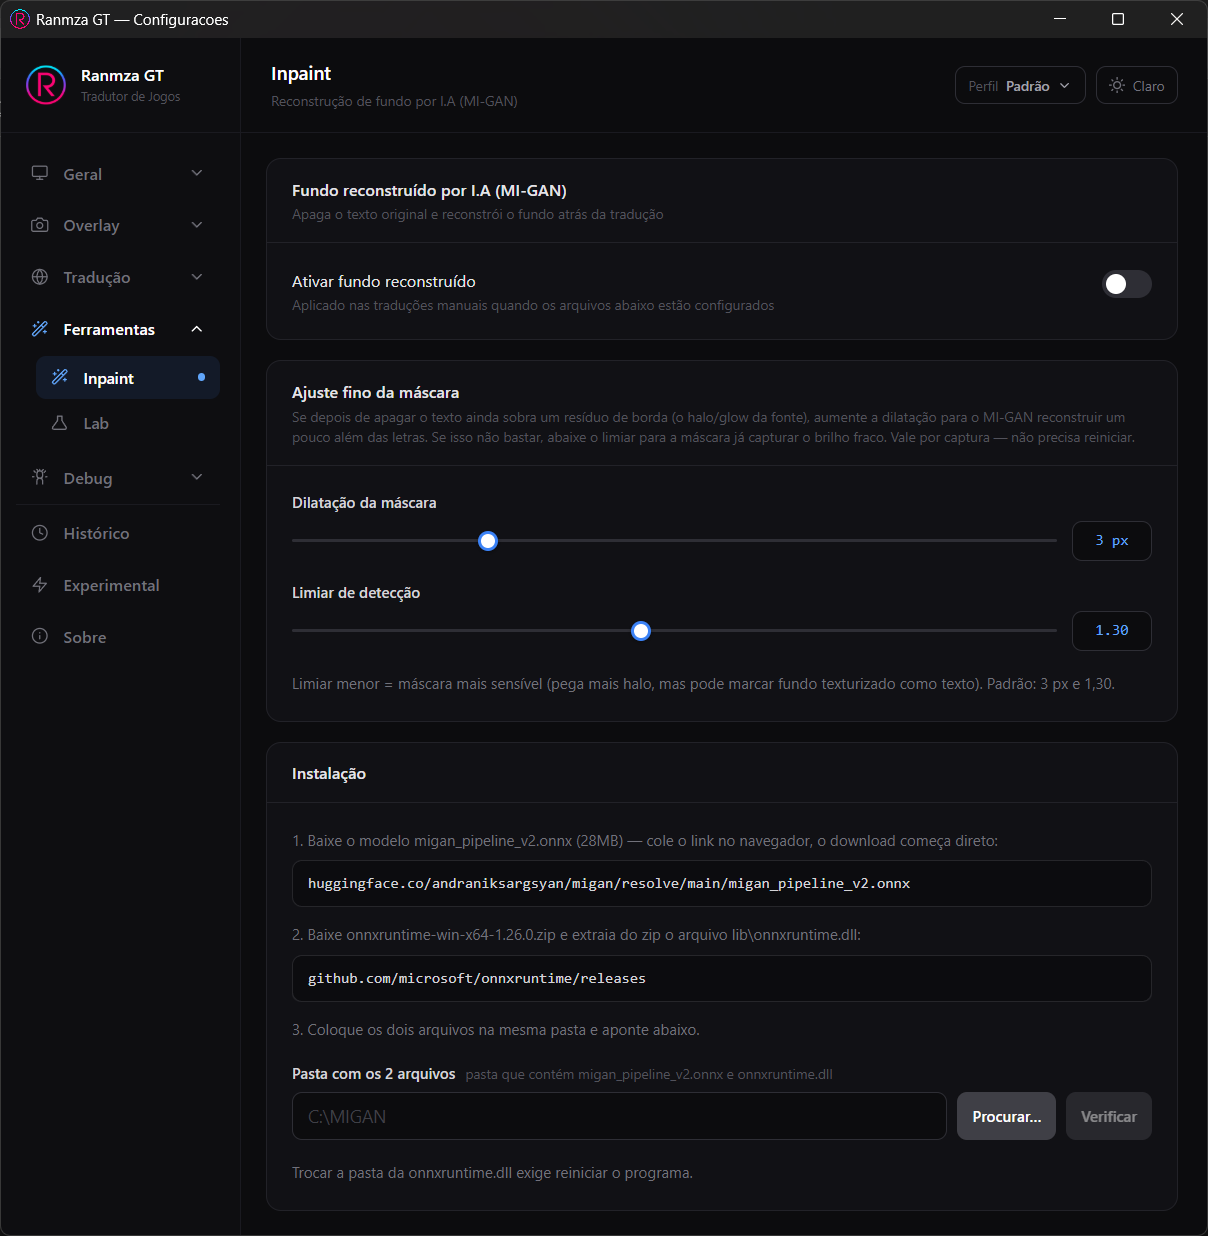
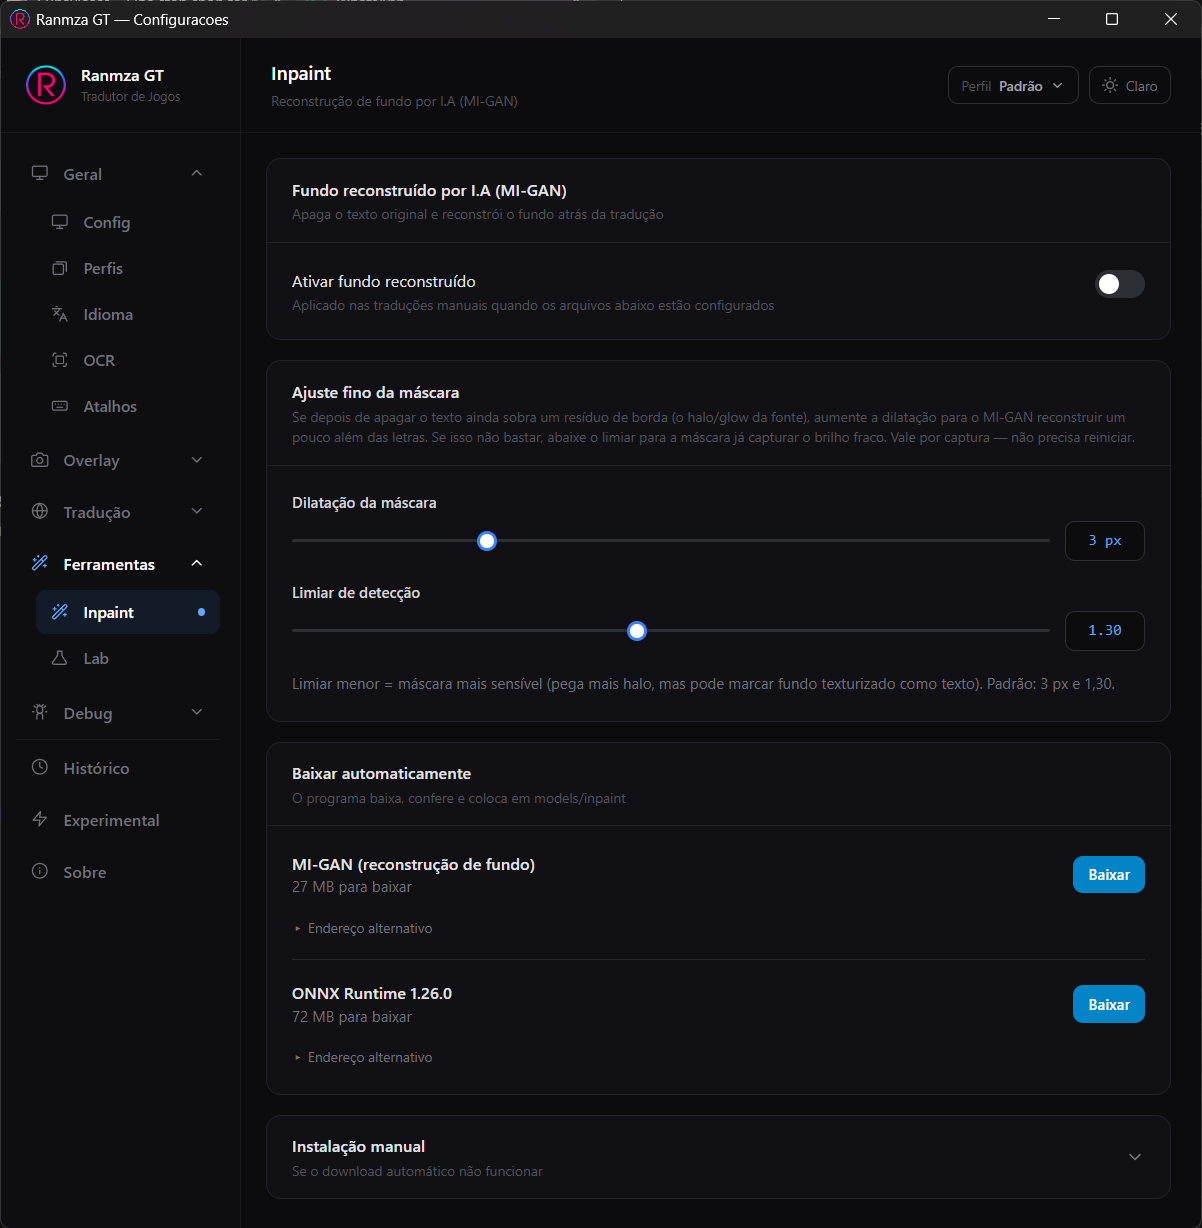
docs: manual cobre o download automatico do MI-GAN (PT + EN)
A secao Ferramentas > Inpaint agora explica os tres caminhos: baixar pelo
botao, endereco alternativo quando a rede bloqueia HuggingFace/GitHub, e a
instalacao manual como alternativa.

Cinco prints novos, incluindo o print da aba atualizado — o antigo mostrava o
layout sem o card de download.

diff --git a/_src/manual_en.md b/_src/manual_en.md
@@ -803,7 +803,37 @@ Instead of a black box behind the translation, it erases the original text from 
   - *Mask dilation* (0–12 px; default 3) — if an edge residue remains after erasing the text (the font halo), raise it so MI-GAN reconstructs a bit beyond the letters.
   - *Detection threshold* (1.05–1.60; default 1.30) — a lower threshold makes the mask more sensitive (catches more halo, but may mistake textured background for text).
   - Both apply **per capture**, with no restart.
-- **Installation** — download `migan_pipeline_v2.onnx` (28 MB) and `onnxruntime.dll` (from inside `onnxruntime-win-x64-1.26.0.zip`), put both in the same folder and point here (**Browse** / **Verify**). Moving the `onnxruntime.dll` to another folder requires restarting the program.
+#### Download automatically
+
+The feature needs two files that don't ship inside the program's `.zip`: the MI-GAN model (27 MB) and `onnxruntime.dll` (72 MB). The **Download automatically** card fetches both for you.
+
+Click **Download** on each one. The bar shows progress and the button turns into **Cancel** — cancelling doesn't throw away what already came down: resuming picks up where it stopped.
+
+<p align="center"><img src="media/ferramentas-inpaint-baixando.png" alt="MI-GAN download in progress" width="820"></p>
+
+Once finished, both read **Ready, files verified** with a green check, and **the folder is configured on its own** — you don't have to copy any path.
+
+<p align="center"><img src="media/ferramentas-inpaint-pronto.png" alt="Both files downloaded and verified" width="820"></p>
+
+The program checks each file's **sha256** before accepting it. A file that arrives corrupted or different from what was expected is deleted and the download fails with a message — a half-written file never gets to pass for a good one. Both land in `models\inpaint`, next to the executable.
+
+##### Alternate address
+
+If the default download doesn't work on your network (some corporate networks and some ISPs block HuggingFace and GitHub), open **Alternate address** and paste another link.
+
+<p align="center"><img src="media/ferramentas-inpaint-endereco.png" alt="Alternate address field open" width="820"></p>
+
+Hash verification **still applies** to the alternate address. It changes where the file comes from, never which file is accepted: a link that serves something else is rejected.
+
+#### Manual installation
+
+If you'd rather do it by hand — or if the gaming machine has no internet — open **Manual installation**. It has the links for both files and the folder field, with **Browse** and **Verify**.
+
+<p align="center"><img src="media/ferramentas-inpaint-manual.png" alt="Manual installation block open" width="820"></p>
+
+Download `migan_pipeline_v2.onnx` and `onnxruntime.dll` (from inside `onnxruntime-win-x64-1.26.0.zip`), put both in the same folder and point here. Once it finds both, the folder is configured right away.
+
+> Moving the `onnxruntime.dll` to another folder requires restarting the program.
 
 > Tip: turn on **Outline** in Overlay › Capture, because the reconstructed background can come out too light for white text.
 

diff --git a/en/Manual/complete-reference-all-tabs.md b/en/Manual/complete-reference-all-tabs.md
@@ -224,7 +224,37 @@ Instead of a black box behind the translation, it erases the original text from 
   - *Mask dilation* (0–12 px; default 3) — if an edge residue remains after erasing the text (the font halo), raise it so MI-GAN reconstructs a bit beyond the letters.
   - *Detection threshold* (1.05–1.60; default 1.30) — a lower threshold makes the mask more sensitive (catches more halo, but may mistake textured background for text).
   - Both apply **per capture**, with no restart.
-- **Installation** — download `migan_pipeline_v2.onnx` (28 MB) and `onnxruntime.dll` (from inside `onnxruntime-win-x64-1.26.0.zip`), put both in the same folder and point here (**Browse** / **Verify**). Moving the `onnxruntime.dll` to another folder requires restarting the program.
+### Download automatically
+
+The feature needs two files that don't ship inside the program's `.zip`: the MI-GAN model (27 MB) and `onnxruntime.dll` (72 MB). The **Download automatically** card fetches both for you.
+
+Click **Download** on each one. The bar shows progress and the button turns into **Cancel** — cancelling doesn't throw away what already came down: resuming picks up where it stopped.
+
+<p align="center"><img src="media/ferramentas-inpaint-baixando.png" alt="MI-GAN download in progress" width="820"></p>
+
+Once finished, both read **Ready, files verified** with a green check, and **the folder is configured on its own** — you don't have to copy any path.
+
+<p align="center"><img src="media/ferramentas-inpaint-pronto.png" alt="Both files downloaded and verified" width="820"></p>
+
+The program checks each file's **sha256** before accepting it. A file that arrives corrupted or different from what was expected is deleted and the download fails with a message — a half-written file never gets to pass for a good one. Both land in `models\inpaint`, next to the executable.
+
+#### Alternate address
+
+If the default download doesn't work on your network (some corporate networks and some ISPs block HuggingFace and GitHub), open **Alternate address** and paste another link.
+
+<p align="center"><img src="media/ferramentas-inpaint-endereco.png" alt="Alternate address field open" width="820"></p>
+
+Hash verification **still applies** to the alternate address. It changes where the file comes from, never which file is accepted: a link that serves something else is rejected.
+
+### Manual installation
+
+If you'd rather do it by hand — or if the gaming machine has no internet — open **Manual installation**. It has the links for both files and the folder field, with **Browse** and **Verify**.
+
+<p align="center"><img src="media/ferramentas-inpaint-manual.png" alt="Manual installation block open" width="820"></p>
+
+Download `migan_pipeline_v2.onnx` and `onnxruntime.dll` (from inside `onnxruntime-win-x64-1.26.0.zip`), put both in the same folder and point here. Once it finds both, the folder is configured right away.
+
+> Moving the `onnxruntime.dll` to another folder requires restarting the program.
 
 > Tip: turn on **Outline** in Overlay › Capture, because the reconstructed background can come out too light for white text.
 

diff --git a/_src/manual.md b/_src/manual.md
@@ -1249,10 +1249,47 @@ jogo. Vale para as **traduções manuais** (Traduzir e Vision); o Modo Legenda n
   - *Limiar de detecção* (1,05–1,60; padrão 1,30) — limiar menor deixa a máscara mais sensível
     (pega mais halo, mas pode confundir fundo texturizado com texto).
   - Os dois valem **por captura**, sem reiniciar.
-- **Instalação** — baixe `migan_pipeline_v2.onnx` (28 MB) e o `onnxruntime.dll` (de dentro do
-  `onnxruntime-win-x64-1.26.0.zip`), coloque os dois na mesma pasta e aponte aqui
-  (**Procurar** / **Verificar**). Trocar a pasta da `onnxruntime.dll` exige reiniciar o
-  programa.
+#### Baixar automaticamente
+
+O recurso precisa de dois arquivos que não vêm no `.zip` do programa: o modelo do MI-GAN
+(27 MB) e a `onnxruntime.dll` (72 MB). O card **Baixar automaticamente** pega os dois para você.
+
+Clique em **Baixar** em cada um. A barra mostra o andamento e o botão vira **Cancelar** —
+cancelar não perde o que já baixou: retomar continua de onde parou.
+
+<p align="center"><img src="media/ferramentas-inpaint-baixando.png" alt="Download do MI-GAN em andamento" width="820"></p>
+
+Terminado, os dois ficam com **Pronto, arquivos conferidos** e um Ok verde, e **a pasta é
+configurada sozinha** — você não precisa copiar caminho nenhum.
+
+<p align="center"><img src="media/ferramentas-inpaint-pronto.png" alt="Os dois arquivos baixados e conferidos" width="820"></p>
+
+O programa confere o **sha256** de cada arquivo antes de aceitá-lo. Arquivo que chega corrompido
+ou diferente do esperado é apagado e o download falha com aviso — nunca fica um arquivo pela
+metade se passando por bom. Os dois vão para a pasta `models\inpaint`, ao lado do executável.
+
+##### Endereço alternativo
+
+Se o download padrão não funcionar na sua rede (algumas redes corporativas e alguns provedores
+bloqueiam o HuggingFace e o GitHub), abra **Endereço alternativo** e cole outro link.
+
+<p align="center"><img src="media/ferramentas-inpaint-endereco.png" alt="Campo de endereço alternativo aberto" width="820"></p>
+
+A conferência por hash **continua valendo** no endereço alternativo. Ele troca de onde o arquivo
+vem, nunca qual arquivo é aceito: um link que entregue outra coisa é recusado.
+
+#### Instalação manual
+
+Se preferir fazer à mão — ou se a máquina do jogo não tem internet —, abra **Instalação manual**.
+São os links dos dois arquivos e o campo da pasta, com **Procurar** e **Verificar**.
+
+<p align="center"><img src="media/ferramentas-inpaint-manual.png" alt="Bloco de instalação manual aberto" width="820"></p>
+
+Baixe `migan_pipeline_v2.onnx` e o `onnxruntime.dll` (de dentro do
+`onnxruntime-win-x64-1.26.0.zip`), coloque os dois na mesma pasta e aponte aqui. Achando os dois,
+a pasta é configurada na hora.
+
+> Trocar a pasta da `onnxruntime.dll` exige reiniciar o programa.
 
 > Dica: ative o **Contorno** na aba Overlay › Captura, porque o fundo reconstruído pode ficar
 > claro demais para texto branco.

diff --git a/Manual/referencia-completa-todas-as-abas.md b/Manual/referencia-completa-todas-as-abas.md
@@ -351,10 +351,47 @@ jogo. Vale para as **traduções manuais** (Traduzir e Vision); o Modo Legenda n
   - *Limiar de detecção* (1,05–1,60; padrão 1,30) — limiar menor deixa a máscara mais sensível
     (pega mais halo, mas pode confundir fundo texturizado com texto).
   - Os dois valem **por captura**, sem reiniciar.
-- **Instalação** — baixe `migan_pipeline_v2.onnx` (28 MB) e o `onnxruntime.dll` (de dentro do
-  `onnxruntime-win-x64-1.26.0.zip`), coloque os dois na mesma pasta e aponte aqui
-  (**Procurar** / **Verificar**). Trocar a pasta da `onnxruntime.dll` exige reiniciar o
-  programa.
+### Baixar automaticamente
+
+O recurso precisa de dois arquivos que não vêm no `.zip` do programa: o modelo do MI-GAN
+(27 MB) e a `onnxruntime.dll` (72 MB). O card **Baixar automaticamente** pega os dois para você.
+
+Clique em **Baixar** em cada um. A barra mostra o andamento e o botão vira **Cancelar** —
+cancelar não perde o que já baixou: retomar continua de onde parou.
+
+<p align="center"><img src="media/ferramentas-inpaint-baixando.png" alt="Download do MI-GAN em andamento" width="820"></p>
+
+Terminado, os dois ficam com **Pronto, arquivos conferidos** e um Ok verde, e **a pasta é
+configurada sozinha** — você não precisa copiar caminho nenhum.
+
+<p align="center"><img src="media/ferramentas-inpaint-pronto.png" alt="Os dois arquivos baixados e conferidos" width="820"></p>
+
+O programa confere o **sha256** de cada arquivo antes de aceitá-lo. Arquivo que chega corrompido
+ou diferente do esperado é apagado e o download falha com aviso — nunca fica um arquivo pela
+metade se passando por bom. Os dois vão para a pasta `models\inpaint`, ao lado do executável.
+
+#### Endereço alternativo
+
+Se o download padrão não funcionar na sua rede (algumas redes corporativas e alguns provedores
+bloqueiam o HuggingFace e o GitHub), abra **Endereço alternativo** e cole outro link.
+
+<p align="center"><img src="media/ferramentas-inpaint-endereco.png" alt="Campo de endereço alternativo aberto" width="820"></p>
+
+A conferência por hash **continua valendo** no endereço alternativo. Ele troca de onde o arquivo
+vem, nunca qual arquivo é aceito: um link que entregue outra coisa é recusado.
+
+### Instalação manual
+
+Se preferir fazer à mão — ou se a máquina do jogo não tem internet —, abra **Instalação manual**.
+São os links dos dois arquivos e o campo da pasta, com **Procurar** e **Verificar**.
+
+<p align="center"><img src="media/ferramentas-inpaint-manual.png" alt="Bloco de instalação manual aberto" width="820"></p>
+
+Baixe `migan_pipeline_v2.onnx` e o `onnxruntime.dll` (de dentro do
+`onnxruntime-win-x64-1.26.0.zip`), coloque os dois na mesma pasta e aponte aqui. Achando os dois,
+a pasta é configurada na hora.
+
+> Trocar a pasta da `onnxruntime.dll` exige reiniciar o programa.
 
 > Dica: ative o **Contorno** na aba Overlay › Captura, porque o fundo reconstruído pode ficar
 > claro demais para texto branco.
